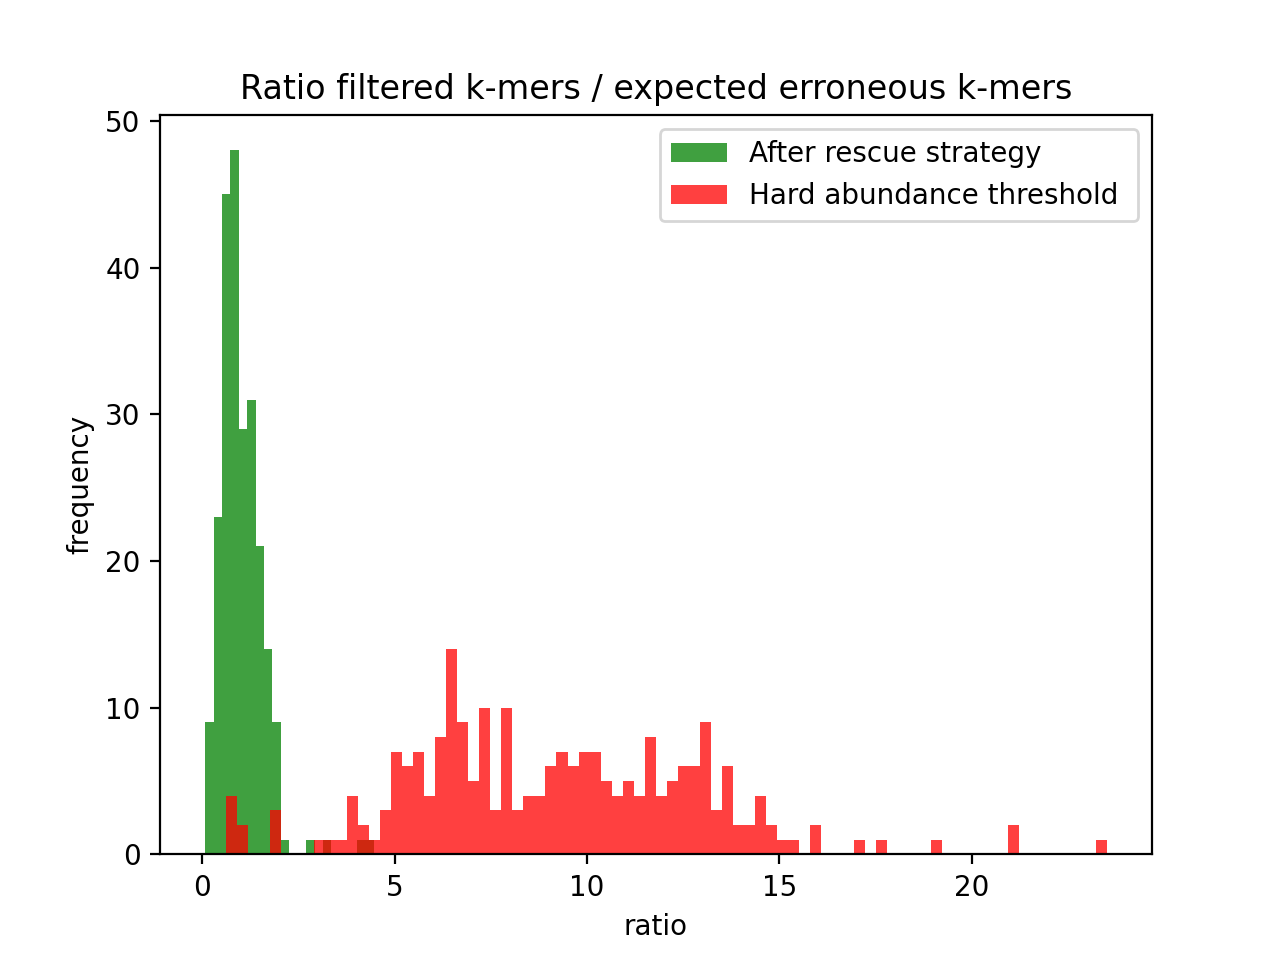
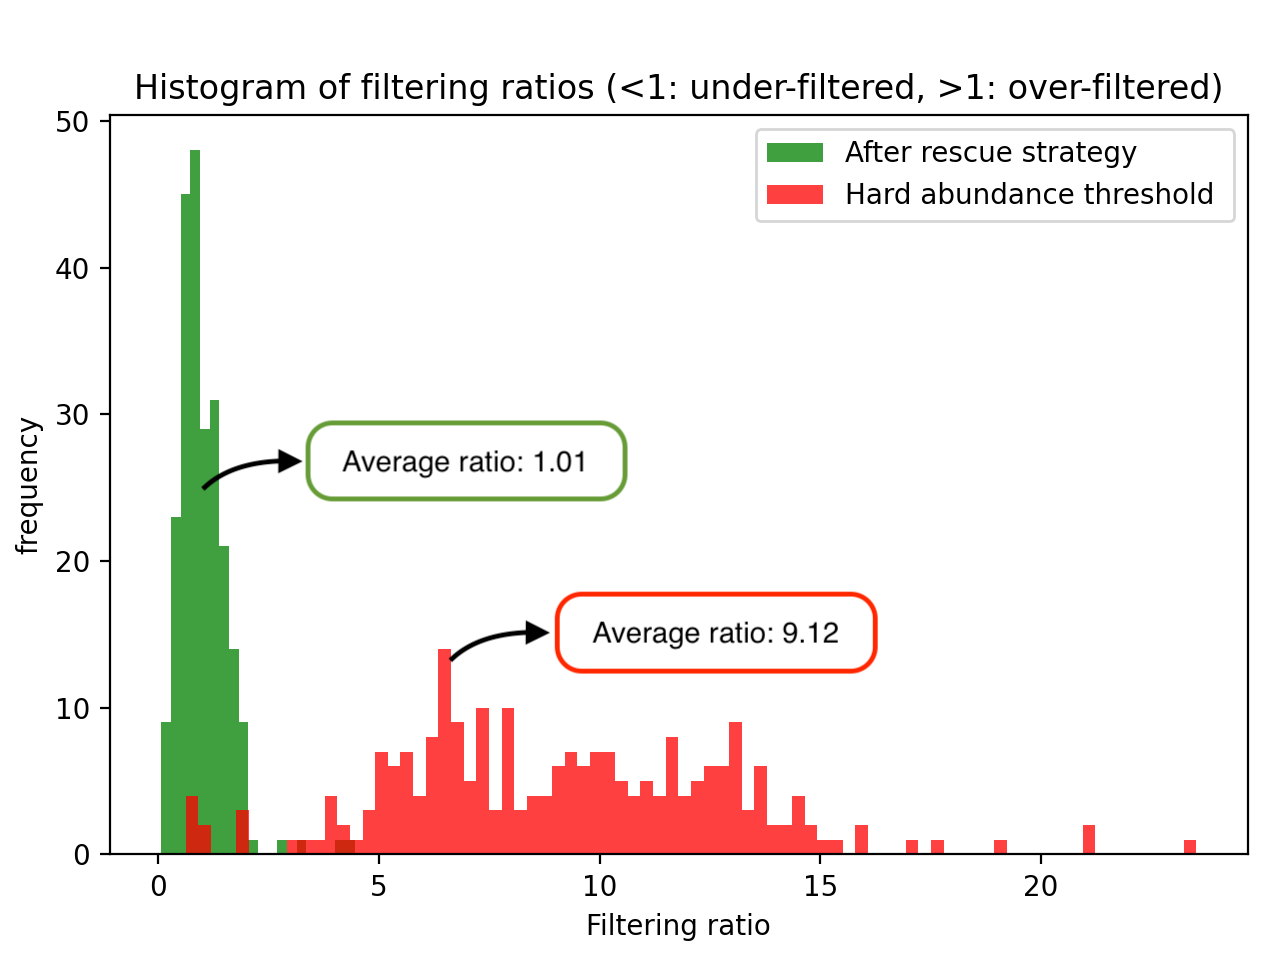
update fig 2b

diff --git a/tara-metag-bacterial/validate_rescued_kmers/parse_merger.py b/tara-metag-bacterial/validate_rescued_kmers/parse_merger.py
@@ -37,8 +37,8 @@ Fichier type:
 
 
 
-def expected_FP(nb_total_kmers: int, FP_rate: float, k: int):
-    return int(nb_total_kmers * (1-(1-FP_rate)**k))
+def expected_False(nb_total_kmers: int, False_rate: float, k: int):
+    return int(nb_total_kmers * (1-(1-False_rate)**k))
 
 total_kmers = [0 for read_set_id in range(nb_sets)]
 total_kmers_wo_rescued = [0 for read_set_id in range(nb_sets)]
@@ -81,46 +81,70 @@ with open("stationsGAIIx.txt") as mfile:
 k=20
 ratios_with_rescue = []
 ratios_kmers_seen_twice_or_more = []
-print("ID station_name Total_kmers FP_wo_rescue FP_with_rescue\
-      Techno Expected_FP \
-      ratio_FP_wo \
-      ratio_FP_with \
-      NB_kmers_seen_once ratio_kmer_seen_once_Expected_FP \
-      NB_kmers_seen_twice ratio_kmer_seen_twice_Expected_FP \
+print("ID station_name Total_kmers kmer_seen_once False_wo_rescue False_with_rescue\
+      Techno Expected_False \
+      ratio_False_wo \
+      ratio_False_with \
+      NB_kmers_seen_once ratio_kmer_seen_once_Expected_False \
+      NB_kmers_seen_twice ratio_kmer_seen_twice_Expected_False \
       ")
 with open("bact_metaG_factorized.list") as mfile:
+<<<<<<< HEAD
+    sum_th_False = 0
+    sum_seen_once = 0
+    sum_non_rescued = 0
+    
+    sum_ratio_with = 0
+    sum_ratio_ab_sup_one = 0
+    nb_summed = 0
+    
+    sum_theoretical_genomical = 0
+    sum_raw = 0
+    sum_ab_sup_one = 0
+    sum_after_rescue = 0
+=======
     sum_th_FP = 0
     sum_seen_once = 0
     sum_non_rescued = 0
+>>>>>>> 815abd83bb1eea5e18df91584d187f102451a1b0
     for read_set_id in range(nb_sets):
         set_name = mfile.readline().split(" ")[0]
         # define total_number_of_kmers:
         with open(f"estimated_kmer_counts_metaG_bact/{set_name}_count_k20_k20.hist") as est_file:
-            total_number_of_kmers = int(int(est_file.readline().split()[-1]))#*2442/2443) # one log is empty, hence we decrease the total estimated number of kmers. Necessary?
+            total_number_of_kmers = int(est_file.readline().split()[-1])#*2442/2443) # one log is empty, hence we decrease the total estimated number of kmers. Necessary?
             est_file.readline() # FO, we dont care
             kmer_seen_once = int(int(est_file.readline().split()[-1]))#*2442/2443)
             kmer_seen_twice = int(int(est_file.readline().split()[-1]))#*2442/2443)
-        FP_wo_rescued = total_number_of_kmers-total_kmers_wo_rescued[read_set_id]
-        FP_with_rescued = total_number_of_kmers-total_kmers_with_rescued[read_set_id]
-        print(f"set{read_set_id} {set_name} {total_number_of_kmers} {kmer_seen_once} {FP_wo_rescued} {FP_with_rescued}", end="")
+        False_wo_rescued = total_number_of_kmers-total_kmers_wo_rescued[read_set_id]
+        False_with_rescued = total_number_of_kmers-total_kmers_with_rescued[read_set_id]
+        print(f"set{read_set_id} {set_name} {total_number_of_kmers} {kmer_seen_once} {False_wo_rescued} {False_with_rescued}", end="")
 
         threshold_2_kmers = kmer_seen_once
         threshold_3_kmers = kmer_seen_once + kmer_seen_twice
         techno = ""
-        fp_rate = None
+        False_rate = None
         if set_name in hs2000_set_names:
             techno = "hs2000"
-            fp_rate = 0.00064086
+            False_rate = 0.00064086
         elif set_name in hs2500_set_names:
             techno = "hs2500"
-            fp_rate = 0.004838
+            False_rate = 0.004838
         elif set_name in gaIIx_set_names:
             techno = "gaIIx"
-            fp_rate = 0.0017155
+            False_rate = 0.0017155
 
         if techno == "":
             print(" UNDEF")
         else:
+<<<<<<< HEAD
+            expected_False_ = expected_False(total_number_of_kmers, False_rate,  k)
+            sum_th_False += expected_False_
+            sum_seen_once += threshold_2_kmers
+            sum_non_rescued += False_with_rescued
+            ratio_wo = round(False_wo_rescued/expected_False_, 2)
+            ratio_with = round(False_with_rescued/expected_False_, 2)
+            ratio_seen_twice_or_more = round(threshold_2_kmers/expected_False_, 2)
+=======
             expected_FP_ = expected_FP(total_number_of_kmers, fp_rate,  k)
             sum_th_FP += expected_FP_
             sum_seen_once += threshold_2_kmers
@@ -128,18 +152,59 @@ with open("bact_metaG_factorized.list") as mfile:
             ratio_wo = round(FP_wo_rescued/expected_FP_, 2)
             ratio_with = round(FP_with_rescued/expected_FP_, 2)
             ratio_seen_twice_or_more = round(threshold_2_kmers/expected_FP_, 2)
+>>>>>>> 815abd83bb1eea5e18df91584d187f102451a1b0
             print(f"\
-                 {techno} {expected_FP_}\
+                 {techno} {expected_False_}\
                  {ratio_wo}\
                  {ratio_with}\
                  {threshold_2_kmers} {ratio_seen_twice_or_more}\
-                 {threshold_3_kmers} {round(threshold_3_kmers/expected_FP_, 2)}")
+                 {threshold_3_kmers} {round(threshold_3_kmers/expected_False_, 2)}")
+            
+            
+            sum_ratio_with += ratio_with
+            sum_ratio_ab_sup_one += ratio_seen_twice_or_more
+            nb_summed += 1
+            
+            genomical = total_number_of_kmers-expected_False_
+            absupone = total_number_of_kmers-kmer_seen_once
+            
+            sum_theoretical_genomical += genomical
+            sum_raw += total_number_of_kmers
+            sum_ab_sup_one += absupone
+            sum_after_rescue += total_kmers_with_rescued[read_set_id]
+            
+            print(f"\n\
+                    Genomical: {genomical} (diff: 0)\n\
+                    Row: {total_number_of_kmers}  (diff: {total_number_of_kmers-genomical})\n\
+                    Ab>1:{absupone} (diff: {absupone-genomical})\n\
+                    Rescued:{total_kmers_with_rescued[read_set_id]} (diff: {total_kmers_with_rescued[read_set_id]-genomical})")
             ratios_with_rescue.append(ratio_with)
             ratios_kmers_seen_twice_or_more.append(ratio_seen_twice_or_more)
         
+<<<<<<< HEAD
+    print(f" {sum_seen_once} have an abundance 1\n {sum_non_rescued} are not rescued by kmtrics\n {sum_th_False} are theoretically Falses")
+
+    print(f"Cells of the matrix: \n\
+    REMAINING:\n\
+            - Theoretical non-empty cells:\t{sum_theoretical_genomical} (diff: 0, ratio 1)\n\
+            - Row non-empty cells:        \t{sum_raw} (diff: {sum_raw-sum_theoretical_genomical}, ratio {round(sum_raw/sum_theoretical_genomical,3)})\n\
+            - Cell with abundance > 1:    \t{sum_ab_sup_one} (diff: {sum_ab_sup_one-sum_theoretical_genomical}, ratio {round(sum_ab_sup_one/sum_theoretical_genomical,3)})\n\
+            - Cell conserved after rescue:\t{sum_after_rescue} (diff: {sum_after_rescue-sum_theoretical_genomical}, ratio {round(sum_after_rescue/sum_theoretical_genomical,3)})\n\
+    REMOVED:\n\
+            - Theroretically removed: \t\t{sum_raw-sum_theoretical_genomical} (ratio 1)\n\
+            - Removed with ab2 threshold:\t{sum_raw-sum_ab_sup_one} (ratio {round((sum_raw-sum_ab_sup_one)/(sum_raw-sum_theoretical_genomical),3)})\n\
+            - Removed after rescue : \t\t{sum_raw-sum_after_rescue} (ratio {round((sum_raw-sum_after_rescue)/(sum_raw-sum_theoretical_genomical),3)})\n\
+    AVERAGE RATIOS\n\
+            - hard threshold: {round(sum_ratio_ab_sup_one/nb_summed,3)}\n\
+            - rescue: {round(sum_ratio_with/nb_summed,3)}\n\
+                ")
+    
+    
+=======
     print(f" {sum_seen_once} have an abundance 1\n {sum_non_rescued} are not rescued by kmtrics\n {sum_th_FP} are theoretically Falses")
 
 
+>>>>>>> 815abd83bb1eea5e18df91584d187f102451a1b0
 import matplotlib.pyplot as plt
 import numpy as np
 
@@ -166,4 +231,8 @@ def overlaid_histogram(data1, data2, n_bins = 0, data1_name="", data1_color="#53
     ax.legend(loc = 'best')
     plt.show() 
 
+<<<<<<< HEAD
+overlaid_histogram(ratios_kmers_seen_twice_or_more, ratios_with_rescue, 10, "Hard abundance threshold ", "red", f"After rescue strategy", "green", "Filtering ratio", "frequency", "Histogram of filtering ratios (<1: under-filtered, >1: over-filtered)")
+=======
 overlaid_histogram(ratios_kmers_seen_twice_or_more, ratios_with_rescue, 10, "Hard abundance threshold ", "red", "After rescue strategy", "green", "ratio", "frequency", "Ratio filtered k-mers / expected erroneous k-mers")
+>>>>>>> 815abd83bb1eea5e18df91584d187f102451a1b0
